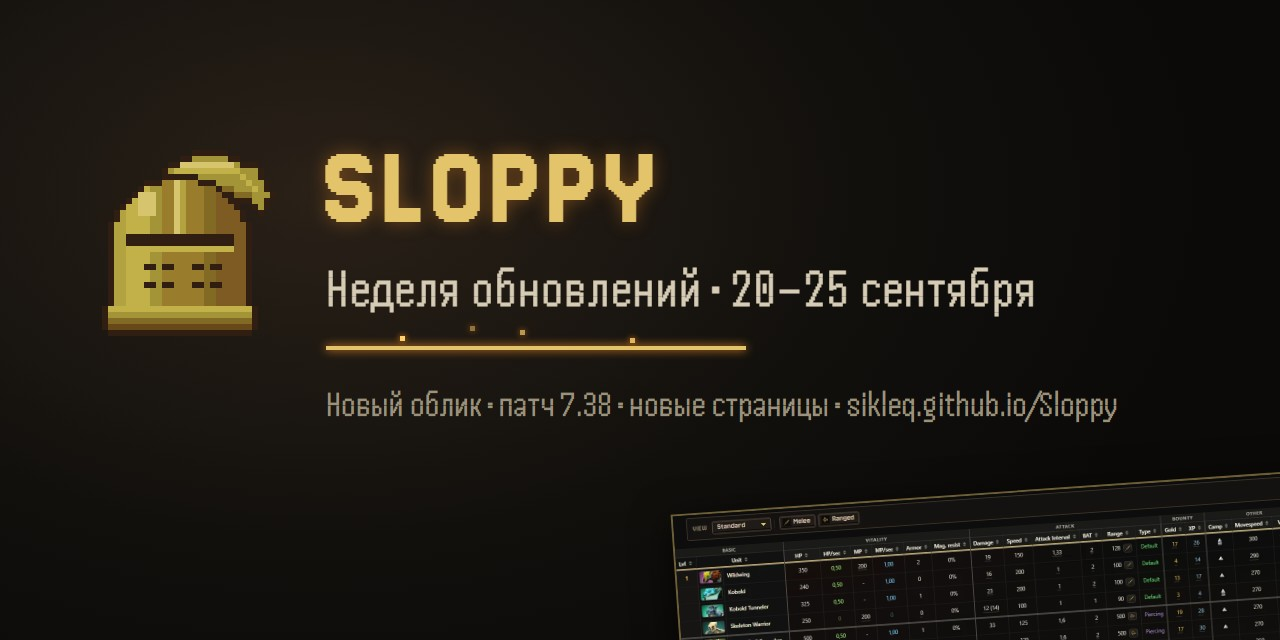
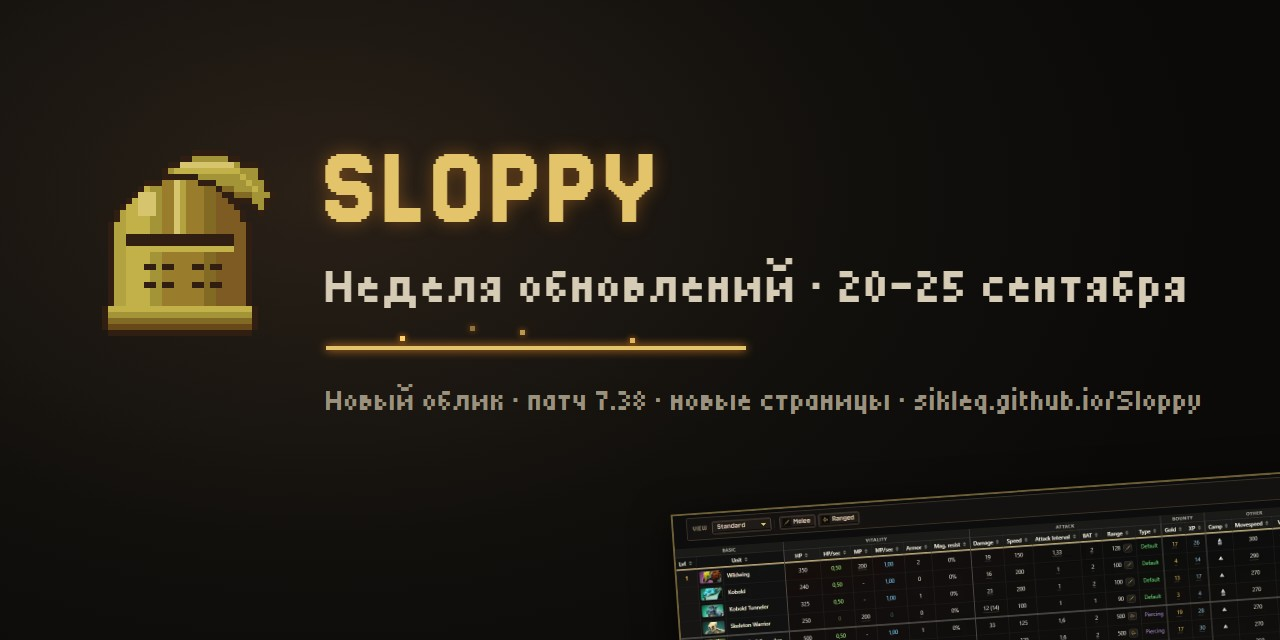
feat(telegraph): weekly post v2 - more sections and 22 images, Tiny5 cover font

Changed region(s): [[0.25, 0.4062, 0.9375, 0.5], [0.25, 0.5938, 0.9375, 0.6562]]

diff --git a/tools/telegraph_post/build_post.py b/tools/telegraph_post/build_post.py
@@ -30,30 +30,44 @@ POST = [
     ("cover", "Неделя обновлений · 20–25 сентября"),
     ("p", 'Sloppy — сайт о патчах Dota 2: каждое изменение размечено тегами, а в таблицах '
           'Materials собраны герои, предметы и крипы с историей по патчам. За неделю сайт '
-          'сменил облик, получил новые страницы, полностью размеченный патч 7.38 и пачку исправлений.'),
+          'сменил облик, получил новые страницы, полностью размеченный патч 7.38, заметно '
+          'ускорился и избавился от пачки ошибок в данных.'),
     ("links", [("Открыть сайт", SITE), ("Changelog сайта", SITE + "changelog.html")]),
     ("toc", None),
+
     ("h3", "Новый облик"),
     ("h4", "Шапка «Угольки»"),
-    ("p", "Кнопки в шапке теперь просто текст. Текущая страница горит золотом, "
-          "а из тонкой полоски под ней поднимаются искры — как у автокаста в игре."),
+    ("p", "Кнопки в шапке теперь просто текст. Текущая страница горит золотом, а из тонкой "
+          "полоски под ней поднимаются искры — как у автокаста в игре. Раздел Materials "
+          "подсвечен снизу тёплым отсветом, будто от углей."),
     ("img", ("2026-09-24_header.webp", "Шапка и панель фильтров страницы патча")),
     ("h4", "Пиксельные кнопки и меню"),
     ("p", "Меню, панели фильтров, переключатели и поля ввода перешли на один стиль: пиксельный "
-          "шрифт, ступенчатые углы, «игровые» кнопки. Нажатая кнопка заливается золотом. "
-          "Иконки ближнего и дальнего боя, талантов и жука исправлений нарисованы заново."),
+          "шрифт, ступенчатые углы, «игровые» кнопки с тёмной кромкой. Нажатая кнопка с текстом "
+          "заливается золотом, а кнопка-иконка — светится изнутри, чтобы иконку было видно."),
     ("img", ("2026-09-25_controls.webp", "Панель фильтров Hero Stats")),
     ("img", ("2026-09-25_menu.webp", "Выпадающее меню с пиксельными галочками")),
+    ("img", ("2026-09-25_terrain_bar.webp", "Кнопки Terrain в том же стиле")),
     ("h4", "Тёплые цвета"),
-    ("p", "Холодные стальные серые и синие ушли. Теперь фон, линии и шапки таблиц в спокойных "
-          "тёплых тонах. Синий остался только там, где он что-то значит: QOL, магический урон, "
-          "интеллект, Aghanim, мана."),
+    ("p", "Холодные стальные серые и синие ушли, их место заняли спокойные тёплые тона — "
+          "фон, линии, шапки таблиц, календарь и его графики. Синий остался только там, где "
+          "он что-то значит: QOL, магический урон, интеллект, Aghanim, мана."),
     ("img", ("2026-09-25_warm.webp", "Neutral Stats в новых цветах")),
-    ("h4", "Главная и автокаст"),
-    ("p", "У каждой плитки главной страницы своя пиксельная иконка. А способности с автокастом "
-          "в таблицах нейтралов показывают эффект из самой игры — огонь бежит по краю иконки."),
+    ("img", ("2026-09-25_warm_calendar.webp", "Календарь патчей")),
+    ("h4", "Теги горят, как неон"),
+    ("p", "Теги и группы на страницах патчей стоят в одну строку, без подписей «Tags» и "
+          "«Group», их разделяет тонкая линия. Нажатый тег светится своим цветом — и буквы, и "
+          "рамка. NEW и REWORK стали ярче, а DEL — винно-красным, чтобы не путать его с NERF."),
+    ("img", ("2026-09-25_tags.webp", "NERF и Items нажаты")),
+    ("h4", "Новые иконки"),
+    ("p", "У каждой плитки главной страницы своя пиксельная иконка. Заново нарисованы "
+          "ближний и дальний бой, таланты (светлое кольцо с веточкой, как в игре) и жук, "
+          "которым в Changelog помечены исправления. А способности с автокастом в таблицах "
+          "нейтралов показывают эффект из самой игры — огонь бежит по краю иконки."),
     ("img", ("2026-09-24_index.webp", "Главная страница")),
+    ("img", ("2026-09-25_aoe_talent.webp", "AoE Increase: включённый талант и предметы")),
     ("img", ("2026-09-24_autocast.webp", "Автокаст, как в игре")),
+
     ("h3", "Патч 7.38 целиком"),
     ("p", "Все 1585 изменений патча 7.38 размечены и сверены построчно с данными Valve. "
           "Переработанные механики читаются одним описанием того, как они работают теперь. "
@@ -61,32 +75,52 @@ POST = [
           "из игры, а значения, растущие со временем, раскрываются таблицей по минутам."),
     ("img", ("2026-09-20_patch738.webp", "Страница патча 7.38")),
     ("img", ("2026-09-24_tormentor_card.webp", "Мучитель: карточка «было / стало» с таблицей")),
+    ("img", ("2026-09-24_lifesteal.webp", "Вампиризм: одно описание новой механики")),
+    ("img", ("2026-09-24_bounty.webp", "Золото с рун богатства — таблица по минутам")),
+
     ("h3", "Новые страницы"),
     ("p", "<b>Unit Changes и Structures</b> — история изменений каждого нейтрала, призыва и "
           "линейного крипа, а ещё башен, казарм и Мучителя."),
     ("img", ("2026-09-22_unit_changes.webp", "Unit Changes")),
     ("p", "<b>Рошан и Мучитель</b> получили свои страницы с полной историей — как у героев."),
     ("img", ("2026-09-23_roshan.webp", "Страница Рошана")),
-    ("p", "<b>Changelog</b> — всё новое на сайте по датам, со скриншотами. Исправления "
-          "отмечены пиксельным жуком."),
+    ("p", "<b>Changelog</b> — всё новое на сайте по датам, со скриншотами в карусели. Мелкие "
+          "правки собраны списком под днём, исправления помечены пиксельным жуком, а слева — "
+          "оглавление только из крупных новинок."),
     ("img", ("2026-09-24_changelog.webp", "Changelog сайта")),
+    ("img", ("2026-09-25_clog_fix.webp", "Мелкие правки дня; жук — исправление")),
+
     ("h3", "Таблицы Materials"),
     ("ul", ["<b>Mana Items:</b> сколько даёт одно очко интеллекта (+12 маны, +0.05 регена) — "
             "прямо в панели фильтров, с историей по патчам.",
             "<b>Hero Lab:</b> список Difference открывается таблицей 4×7 — без прокрутки.",
+            "<b>Врождённые способности:</b> Hero Stats и Hero Lab учитывают всех, кто влияет на "
+            "характеристики. Добавлены Rubick (+1 урон за уровень), Tidehunter (+3 здоровья и "
+            "+2 дальности за каждую рыбу), Dark Willow (+20% регенерации), в Hero Lab — Magnus, "
+            "Primal Beast, Wraith King, Death Prophet. Razor теперь даёт +1% скорости за уровень, "
+            "а не +1 единицу, а Horsepower Кентавра не складывается с сапогами.",
             "<b>Terrain:</b> стрелки у номера патча переходят на соседнюю карту (7.41 ↔ 7.40).",
             "Описания над таблицами убраны: страницы открываются сразу с фильтров."]),
     ("img", ("2026-09-25_per_int.webp", "Per Int на Mana Items")),
     ("img", ("2026-09-25_hl_diff.webp", "Difference в Hero Lab")),
+
+    ("h3", "Быстрее"),
+    ("p", "Hero Dynamics и Item Dynamics — это около 3000 ячеек. Раньше при прокрутке каждая "
+          "ячейка, проезжавшая под курсором, запускала анимацию увеличения, и таблица "
+          "перерисовывалась целиком. Теперь во время прокрутки наведение на паузе, а ячейка "
+          "увеличивается мгновенно: медленных кадров при наведении стало в 7 раз меньше."),
+    ("img", ("2026-09-25_weights_on.webp", "Hero Dynamics в режиме весов")),
+
     ("h3", "Исправления"),
     ("ul", ["Базовая скорость атаки в 7.41f застряла на значениях 7.41e — теперь верно: "
             "Earth Spirit 95, Keeper of the Light 90, Warlock 95. Данные героев для новых патчей "
-            "берутся прямо из файлов игры.",
-            "AoE Increase снова показывает все радиусы.",
-            "Hero и Item Dynamics больше не тормозят при прокрутке и наведении.",
+            "берутся прямо из файлов игры, и это проверяет тест.",
             "История Mana Items учитывает, сколько маны давал интеллект в каждом патче "
             "(11 в 7.36–7.38, а не сегодняшние 12).",
-            "Врождённые способности 7.41f читаются правильно."]),
+            "AoE Increase снова показывает все радиусы.",
+            "Врождённые способности 7.41f читаются правильно, и их список больше не расходится "
+            "между страницами.",
+            "Порядок патчей держится сам: новый патч можно дописать в любое место списка."]),
     ("hr", None),
     ("p", 'Полный список — в <a href="%schangelog.html">Changelog</a>.' % SITE),
 ]
@@ -117,19 +151,19 @@ def _prepare_images():
 
 
 COVER_HTML = """<!doctype html><html><head>
-<link href="https://fonts.googleapis.com/css2?family=Jersey+10&family=Jersey+25&family=Handjet:wght@500&display=block" rel="stylesheet">
+<link href="https://fonts.googleapis.com/css2?family=Jersey+10&family=Jersey+25&family=Tiny5&display=block" rel="stylesheet">
 <style>
 body{margin:0;width:1280px;height:640px;overflow:hidden;font-family:'Jersey 10',monospace;
  background:radial-gradient(ellipse 70% 90% at 25% 30%,#2a2118 0%,#12100d 60%,#0b0a09 100%);color:#e8dcc0}
 .helm{position:absolute;left:84px;top:150px;width:192px;height:192px;image-rendering:pixelated}
 .t{position:absolute;left:320px;top:132px;font-family:'Jersey 25';font-size:112px;color:#e3c46a;letter-spacing:2px;
  text-shadow:0 0 18px rgba(255,150,40,.35)}
-.s{position:absolute;left:326px;top:258px;font-family:'Handjet';font-size:54px;color:#d6cbb5;letter-spacing:1px;white-space:nowrap}
+.s{position:absolute;left:326px;top:258px;font-family:'Tiny5';font-size:50px;color:#d6cbb5;letter-spacing:1px;white-space:nowrap}
 .bar{position:absolute;left:326px;top:346px;width:420px;height:4px;background:#e3c46a;box-shadow:0 0 10px #ff9a2a}
 .e{position:absolute;width:5px;height:5px;background:#ffcf6a;box-shadow:0 0 6px #ff8a1a}
 .shot{position:absolute;right:-40px;bottom:-30px;width:640px;border:2px solid rgba(227,196,106,.45);
  box-shadow:0 10px 40px rgba(0,0,0,.7);transform:rotate(-4deg)}
-.u{position:absolute;left:326px;top:384px;font-family:'Handjet';font-size:36px;color:#9b917f}
+.u{position:absolute;left:326px;top:384px;font-family:'Tiny5';font-size:30px;color:#9b917f}
 </style></head><body>
 <img class="helm" src="http://localhost:8799/icons/ui/gothic/icon_helm.png">
 <div class="t">SLOPPY</div><div class="s">__SUB__</div><div class="bar"></div>

diff --git a/tools/changelog_shots.py b/tools/changelog_shots.py
@@ -47,6 +47,10 @@ SHOTS = {
     "2026-09-25_hl_diff.webp": ("hero_lab.html", None, [".toolbar-panel", '.hd-dd-menu[data-dd="diffstat"]'],
                                 ["#hl-diff-dd .hd-dd-btn"], 400, {"width": 1400}),
     "2026-09-20_patch738.webp": ("patches/7.38.html", None, ["nav.top-nav", ".toolbar", ".entity-block >> nth=0"], [], 520, {"width": 1400}),
+    "2026-09-25_clog_fix.webp": ("changelog.html", None, [".clog-minor >> nth=0"], [".clog-minor >> nth=0 >> summary"], 420, {"width": 1400}),
+    "2026-09-25_weights_on.webp": ("heroes_dyn.html", None, [".toolbar-panel", "table.heroes-dyn-table"], ["#dyn-weights-btn"], 330, {"width": 1500}),
+    "2026-09-25_aoe_talent.webp": ("aoe_increase.html", None, [".toolbar-panel"], ['[data-aoe-upgrade="talent"]'], 120, {"width": 1400}),
+    "2026-09-25_innates.webp": ("hero_lab.html", None, [".hero-lab"], [], 420, {"width": 1600}),
     "2026-09-25_menu.webp": ("items_dyn.html", None, [".toolbar-panel", ".hd-dd-menu"], [".hd-dd-btn"], 330, {"width": 1400}),
     "2026-09-25_tags.webp": ("patches/7.38.html", None, [".legend-stack"], ['.legend-tags .filter-btn[data-filter="nerf"]', ".cat-filter-btn >> nth=2"], 60, {"width": 1600}),
     "2026-09-25_terrain_bar.webp": ("terrain_741.html", None, [".tc-controls-bar", ".terrain-subpatch-nav"], [], 90, {"width": 1400}),
